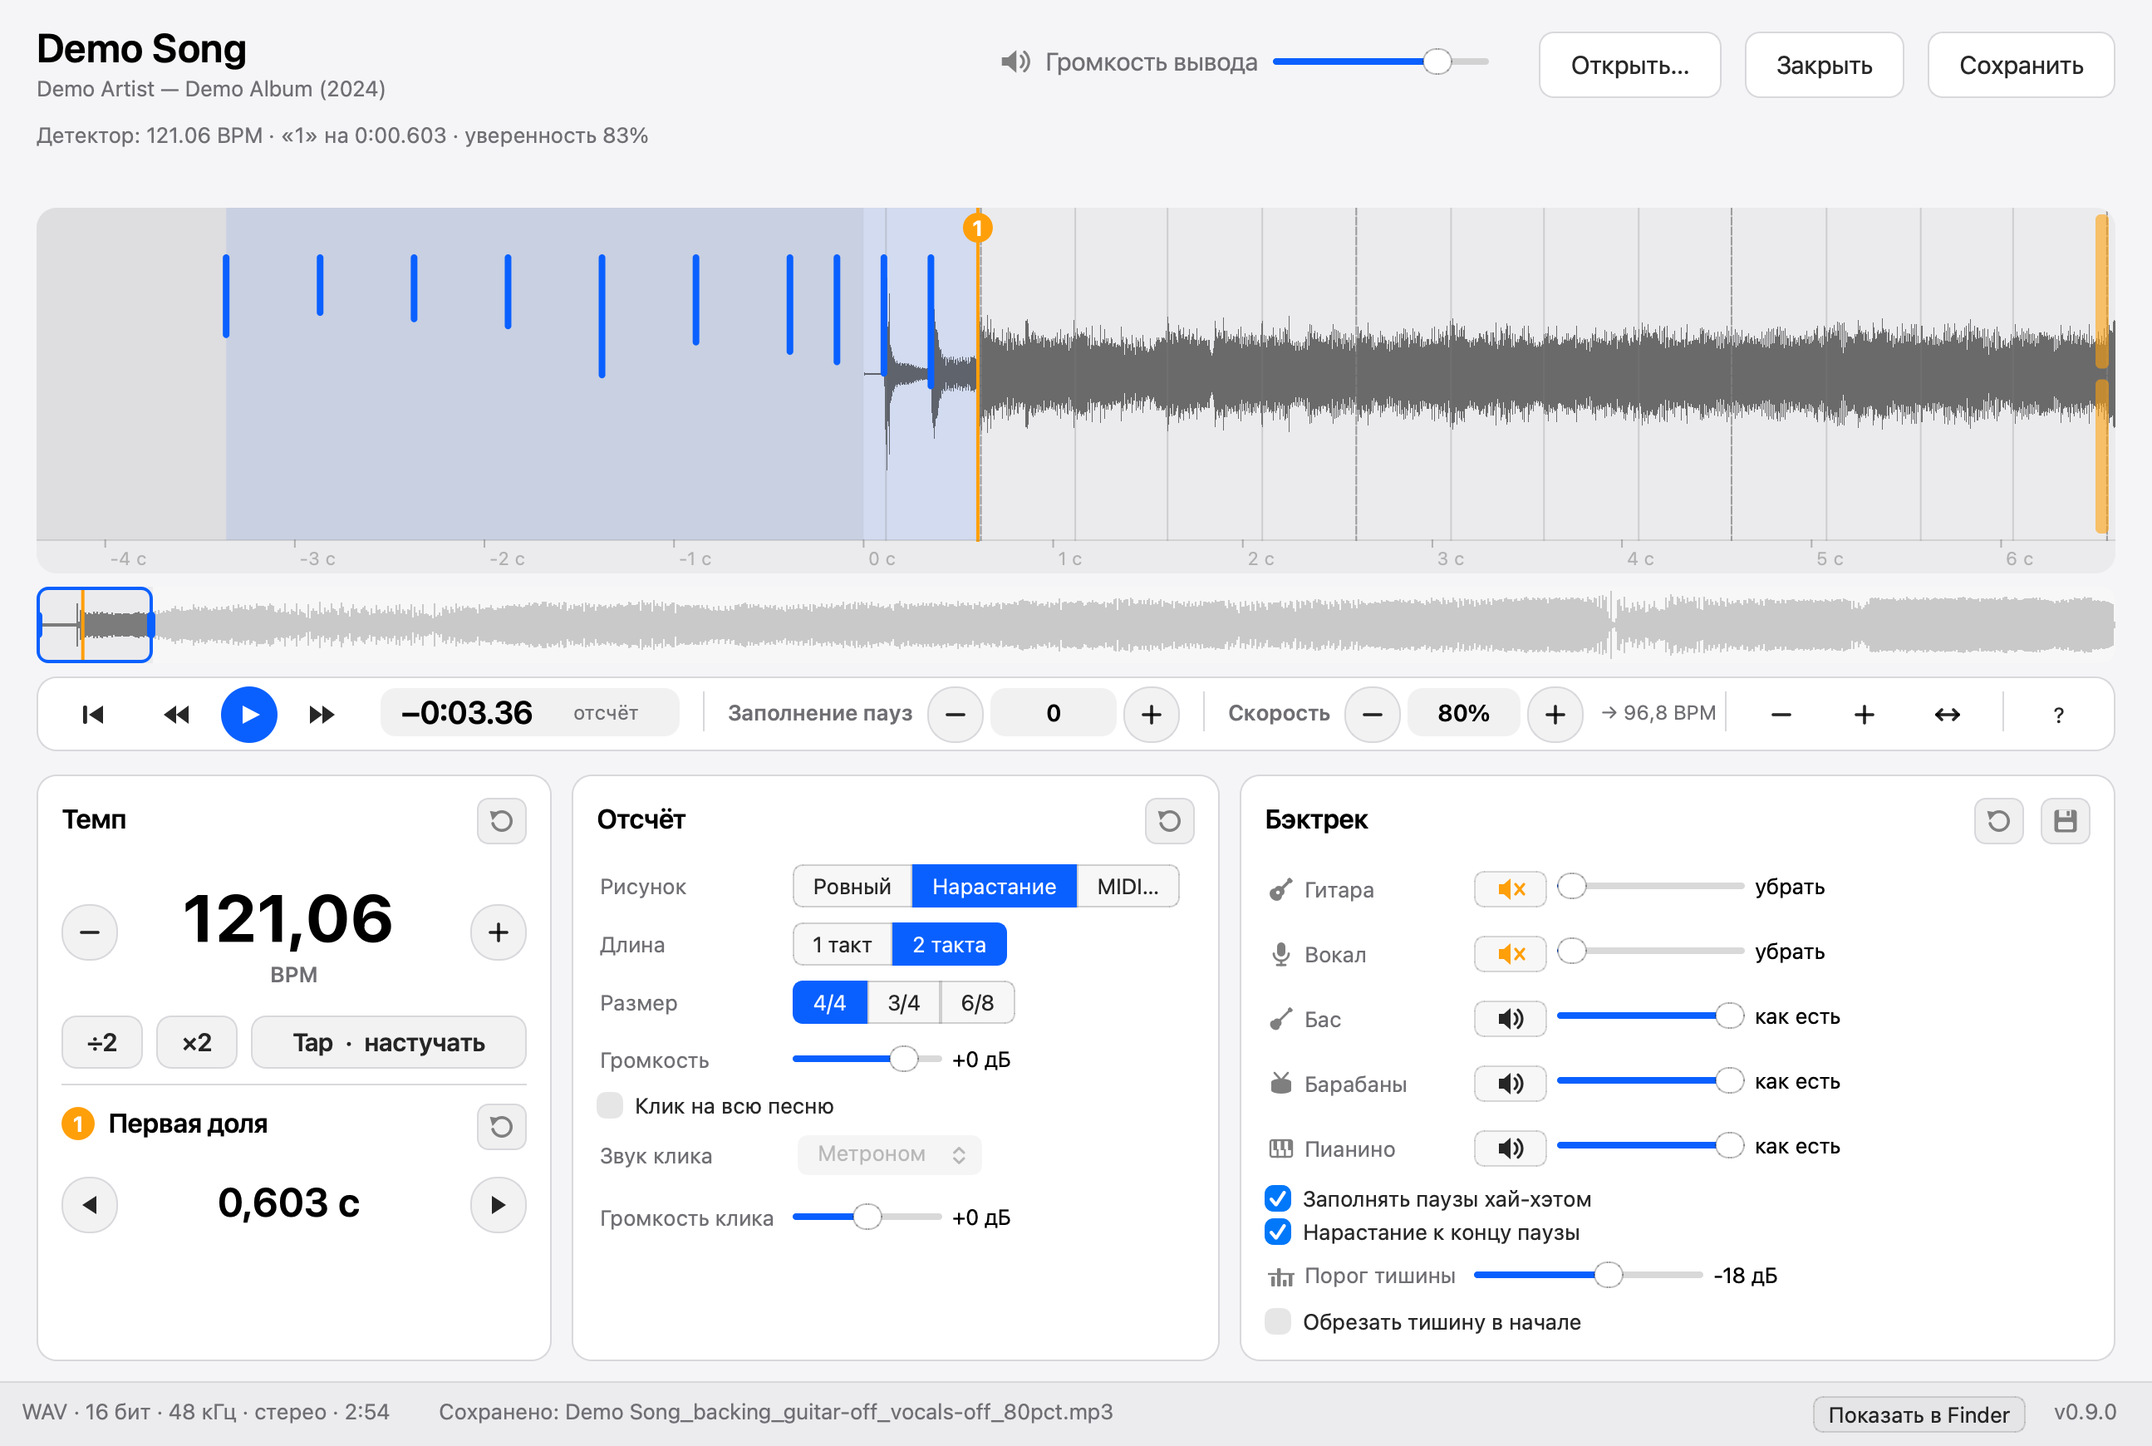
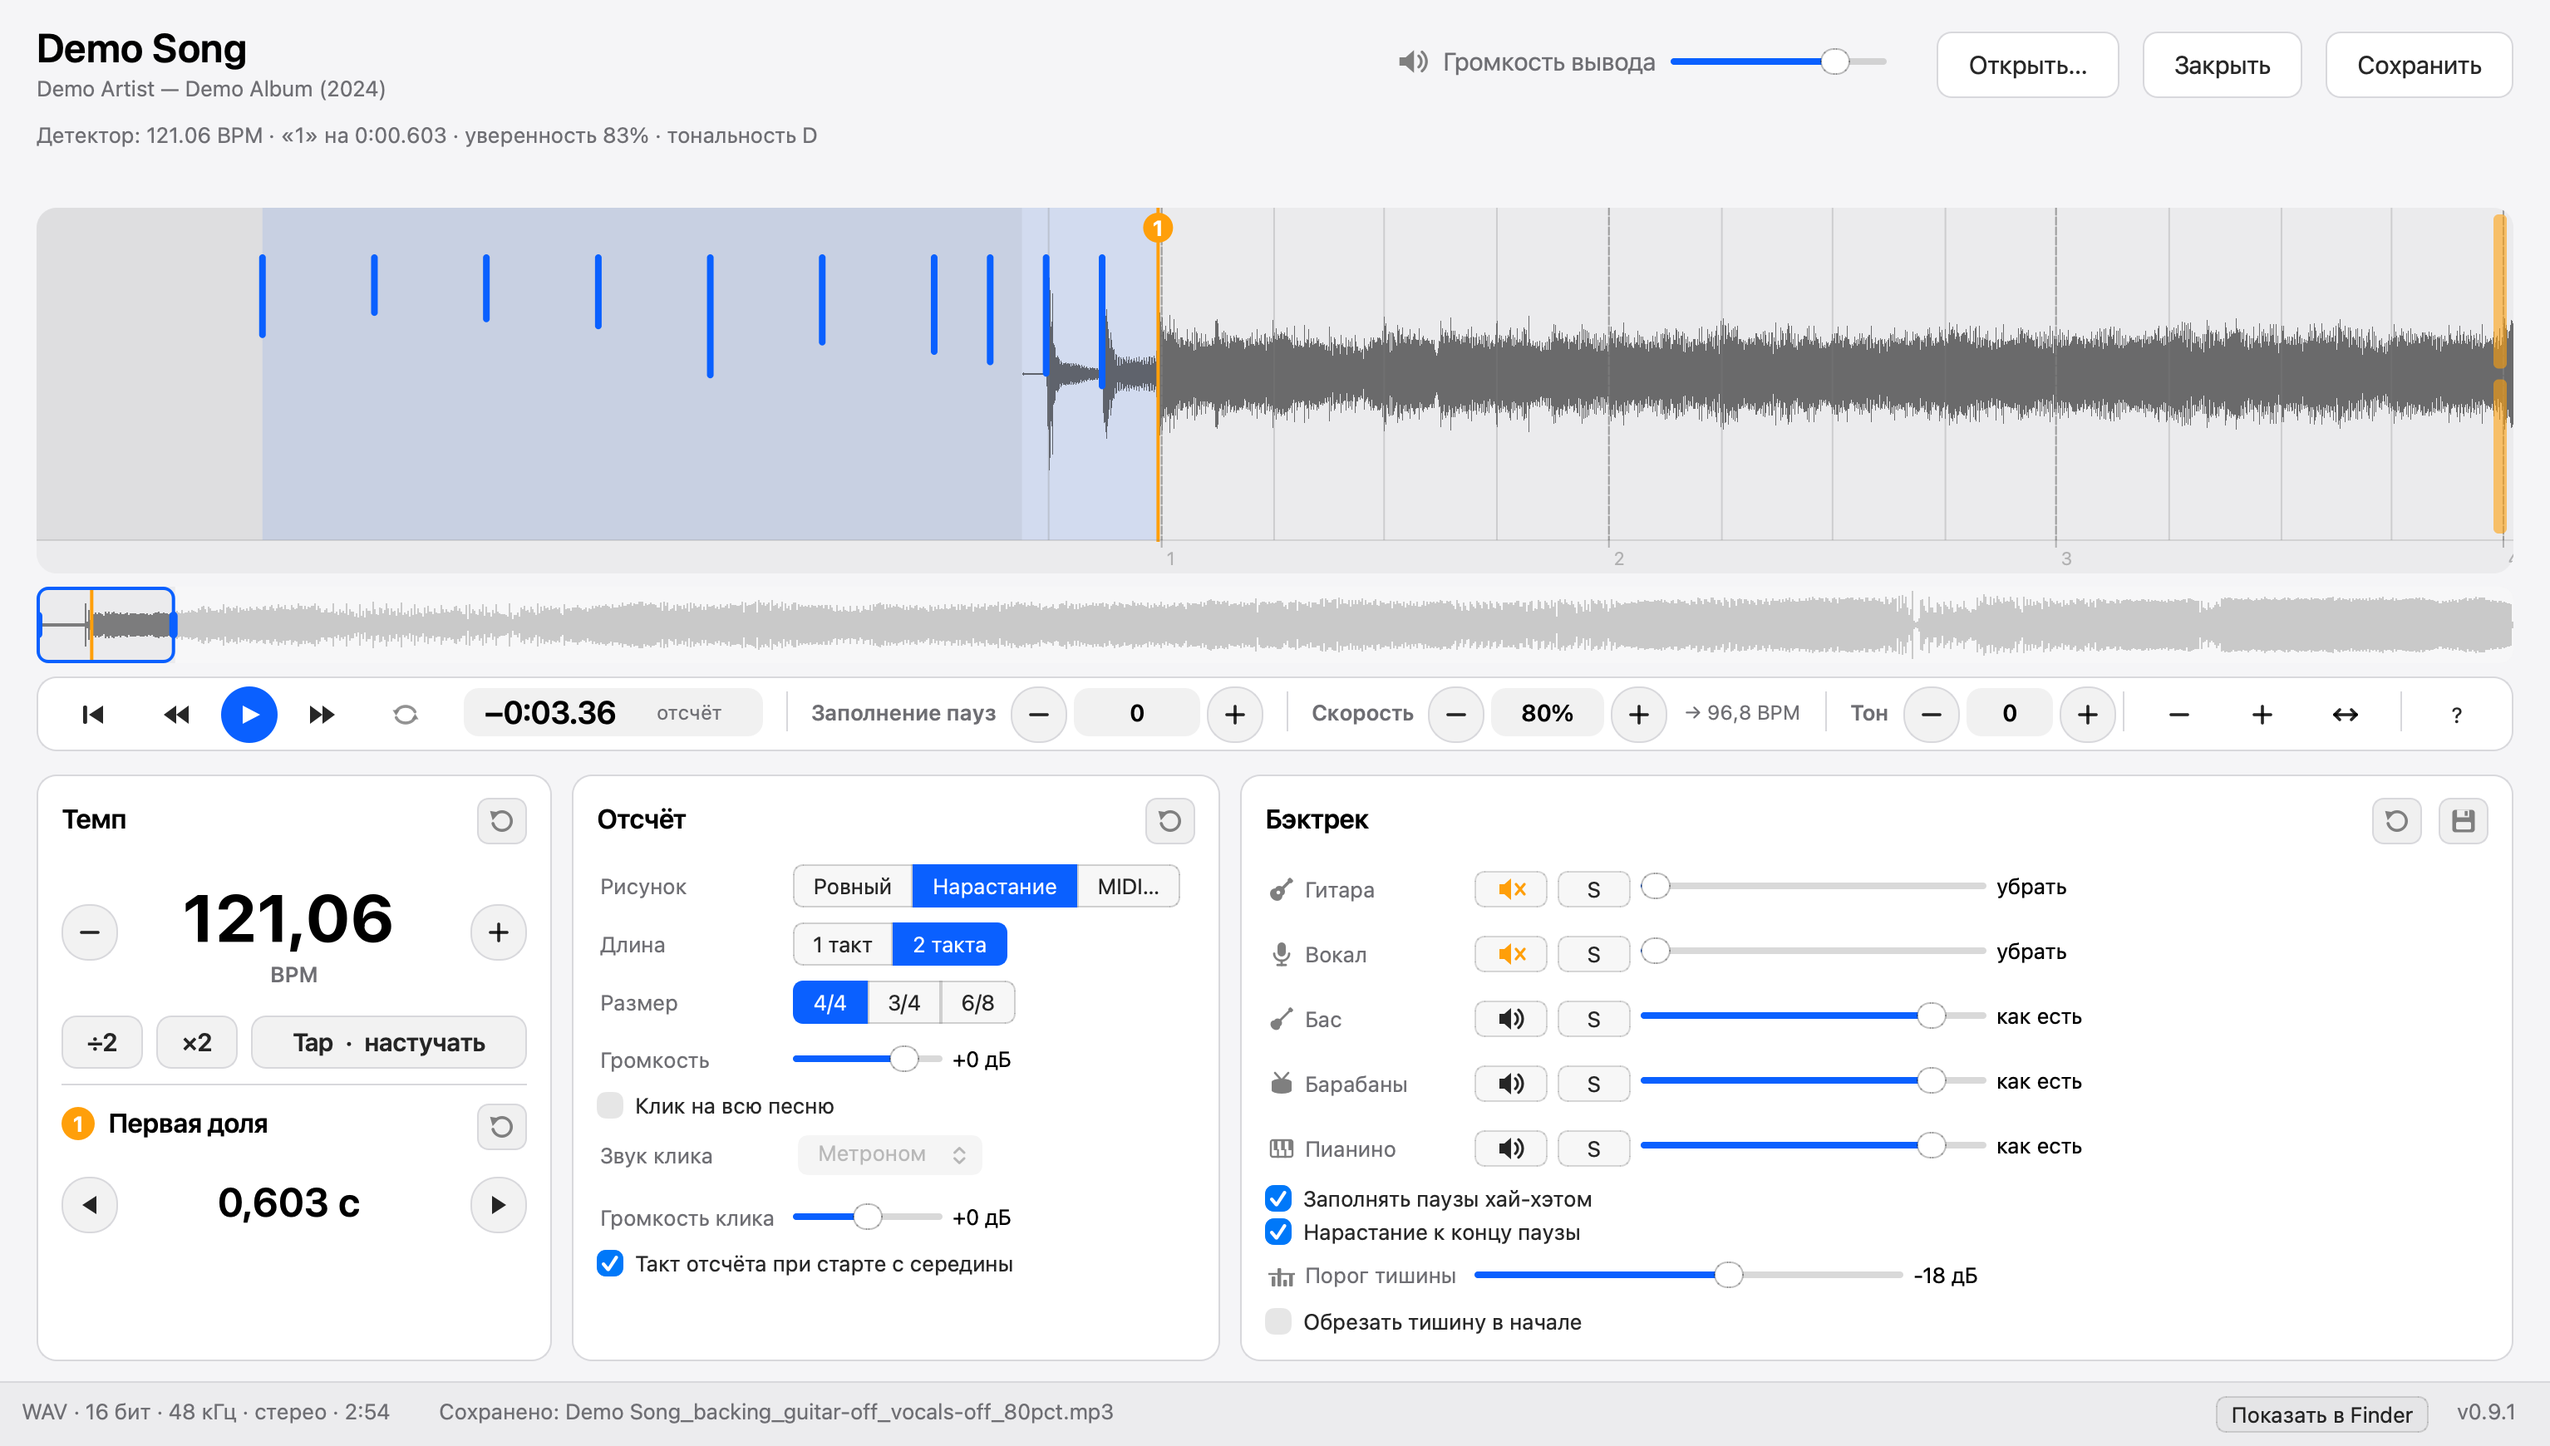
Fresh screenshots for the new transport, solo buttons and key; the screenshot script keeps its own song memory and fresh-install settings

diff --git a/docs/ru/guide/index.html b/docs/ru/guide/index.html
@@ -46,7 +46,7 @@
 <main class="guide">
   <h1>Как работать с Count-In</h1>
   <p class="lead">Откройте песню, проверьте оранжевую «1», выберите отсчёт и сохраните. Остальное по желанию, и всё это описано ниже.</p>
-  <figure><img src="/guide/img/window.png" alt="Окно Count-In с выбранной паузой" width="1180" height="901"></figure>
+  <figure><img src="/guide/img/window.png" alt="Окно Count-In с выбранной паузой" width="1534" height="870"></figure>
   <ul class="toc">
     <li><a href="#s1">Первая доля и темп</a></li>
     <li><a href="#s2">Темп на слух (Tap)</a></li>

diff --git a/docs/guide/index.html b/docs/guide/index.html
@@ -46,7 +46,7 @@
 <main class="guide">
   <h1>How to use Count-In</h1>
   <p class="lead">Open a song, check the orange “1”, pick a count-in and save. Everything else is optional; this page walks through it.</p>
-  <figure><img src="/guide/img/window-en.png" alt="Count-In window with a selected pause" width="1180" height="901"></figure>
+  <figure><img src="/guide/img/window-en.png" alt="Count-In window with a selected pause" width="1534" height="870"></figure>
   <ul class="toc">
     <li><a href="#s1">First downbeat and tempo</a></li>
     <li><a href="#s2">Tap tempo</a></li>

diff --git a/docs/_guide.html b/docs/_guide.html
@@ -46,7 +46,7 @@
 <main class="guide">
   <h1>{{heading}}</h1>
   <p class="lead">{{lead}}</p>
-  <figure><img src="/guide/img/window{{sfx}}.png" alt="{{window_alt}}" width="1180" height="901"></figure>
+  <figure><img src="/guide/img/window{{sfx}}.png" alt="{{window_alt}}" width="1534" height="870"></figure>
   <ul class="toc">
 {{toc}}
   </ul>

diff --git a/docs/screenshots.py b/docs/screenshots.py
@@ -15,7 +15,7 @@ from PySide6.QtCore import QRectF, QSettings, Qt, QTimer
 from PySide6.QtGui import QColor, QFont, QImage, QLinearGradient, QPainter
 
 from countin import gui, i18n
-from countin.core import io
+from countin.core import io, songs
 from countin.i18n import _
 
 OUT = Path(__file__).resolve().parent / "screenshots"
@@ -98,6 +98,10 @@ def run(song: Path, scheme: str, lang: str, tmp: Path) -> None:
     st = QSettings()
     st.setValue(gui.OUT_DIR, "~/Music/Count-In")  # shown in the settings shot; never a real home path
     st.setValue(gui.OUT_GROUP, True)
+
+    # Each run starts from a song nobody has opened, with the settings of a fresh install
+    songs.folder = lambda: tmp / f"songs-{scheme}{sfx}"
+    gui.cloud_key = lambda: False
 
     w = gui.Window()
     w.resize(1180, 800)

diff --git a/AGENTS.md b/AGENTS.md
@@ -127,7 +127,7 @@ Count-In inserts a drum count-in before a song's first downbeat and can turn gui
 
 ## Working on it
 
-- **Screenshots, promo video and site follow the UI.** Any change to the interface or a new visible feature ships in the same PR with fresh screenshots, a re-rendered promo video and a rebuilt site. Screenshots: `uv run python docs/screenshots.py "samples/The First Clear Mile.wav"` (the demo track behind `docs/demo/`, kept locally in the ignored `samples/`; any track with a clear beat works). The script lives in `docs/`, so a screenshot-only PR does not trigger a build. It rewrites `docs/screenshots/` (main window in both themes, preferences, the progress capsule with a tip and the help window in the light theme, in Russian and, with an `-en` suffix, in English; the 1280x640 social previews from the light English and Russian windows). Light is the default everywhere: README, site, video and social preview; the dark main window appears only where the dark theme gets mentioned from a copy of the track with neutral tags, so no real artist or title gets committed. After a merge, upload `social-preview.png` by hand: Settings → General → Social preview, since GitHub has no API for it. If a new screen matters, add it to the script and to both README sections.
+- **Screenshots, promo video and site follow the UI.** Any change to the interface or a new visible feature ships in the same PR with fresh screenshots, a re-rendered promo video and a rebuilt site. Screenshots: `uv run python docs/screenshots.py "samples/The First Clear Mile.wav"` (the demo track behind `docs/demo/`, kept locally in the ignored `samples/`; any track with a clear beat works). The script lives in `docs/`, so a screenshot-only PR does not trigger a build. Each run keeps its song memory in the temporary folder and shows the settings as on a fresh install, so the shots never depend on this machine. It rewrites `docs/screenshots/` (main window in both themes, preferences, the progress capsule with a tip and the help window in the light theme, in Russian and, with an `-en` suffix, in English; the 1280x640 social previews from the light English and Russian windows). Light is the default everywhere: README, site, video and social preview; the dark main window appears only where the dark theme gets mentioned from a copy of the track with neutral tags, so no real artist or title gets committed. After a merge, upload `social-preview.png` by hand: Settings → General → Social preview, since GitHub has no API for it. If a new screen matters, add it to the script and to both README sections.
 - **Promo video.** `promo/` is a Remotion project (public dir `docs/`). `Landscape.tsx` renders the 30 s site video in English and Russian (`promo-en`, `promo-ru`): the count-in intro (`intro.tsx`), then the tilted light-theme window with a ring on the control each line names, a magnified lens of it and the line with an oversized accent word, then the end card. `Vertical.tsx` renders the 9:16 cut for Reels and Shorts (English). Copy per language lives in `text.ts`, the camera targets in `zoom.tsx` (fractions of the window). After new screenshots: `cd promo && npm ci && npm run render` writes `docs/promo/count-in{,-ru}.mp4` and the posters; `npm run render:vertical` writes the 9:16 cut into the ignored `promo/out/`. Check with `npx remotion studio src/index.ts` that the rings still land on the right controls when the layout moves. A line about one part must show only that part changed: "Guitar out" over a window with both guitar and vocals muted, or a vocals line over the same window, reads wrong. Today one screenshot with both muted serves both lines; give each line its own state (a screenshot per state in `docs/screenshots.py`). Then `python3 docs/build_site.py`. Remotion is free for individuals and companies up to three people.
 
 - **Website.** `docs/` is the GitHub Pages site (main, /docs). `_page.html` is the template with both languages (`lang="en"`/`lang="ru"` elements); `python3 docs/build_site.py` writes `index.html` (English) and `ru/index.html` (Russian), each with its own language only, its own title and description and hreflang links. Never edit the generated pages. The user guide (`guide/index.html`, `ru/guide/index.html`) comes from `_guide.html` and the app's own help text in `src/countin/help.py` (English from `i18n.EN`), with screenshots in `docs/guide/img/` that `docs/screenshots.py` takes; the main page links to it from the nav. The first visit to `/` with a Russian system language goes to `/ru/`; the EN/RU link saves the choice in localStorage. The theme defaults to light; `site.css` and `site.js` hold styles, toggles and the demo player. It is served at https://count-in.app (`docs/CNAME`; DNS in Cloudflare, DNS only, so GitHub issues the certificate). Cloudflare Web Analytics (cookieless beacon, token in the snippet) runs on every page. Download buttons go to `download/mac/` and `download/windows/` (generated from `_download.html` by `build_site.py`; the install steps and their CSS-drawn illustrations live in its `DOWNLOADS`; version and size come from the GitHub API at view time): each page counts as a view in Web Analytics, then starts the release asset download and stays open with the install steps, so the Top pages report shows download clicks by platform. The release asset counters on GitHub also include self-updates and CI model fetches. `robots.txt`, `sitemap.xml`, `llms.txt`, `404.html` and the JSON-LD block in `index.html` are hand-written; keep them in step with the page. Under the demo player sits the promo video (English on `/`, Russian on `/ru/`) with `preload="none"`, so the page loads only its poster until someone presses play. The demo clips download on the first scroll, pointer move or key after load, so they stay out of Lighthouse's LCP; phones wait for the play tap. Download sizes next to the buttons come from the GitHub API, and phones get a note that the app is for computers with a share-link button. The JSON-LD and the social previews use `docs/screenshots/`; the Russian page has its own `social-preview-ru.png`. Download buttons point at `releases/latest/download/<asset>`. Preview with `python3 -m http.server -d docs`. `docs/demo/` holds four synced 32 s clips (original padded with silence, count-in, no guitar, no vocals) of a Suno Pro track, rendered with `countin --bpm 121.06 --first-beat 0.603 --bars 2 --style buildup` on its first 40 s. The player plays all four through Web Audio and switches by gain, so they must stay sample-aligned; the waveform peaks and click times in `site.js` come from the same clips.
